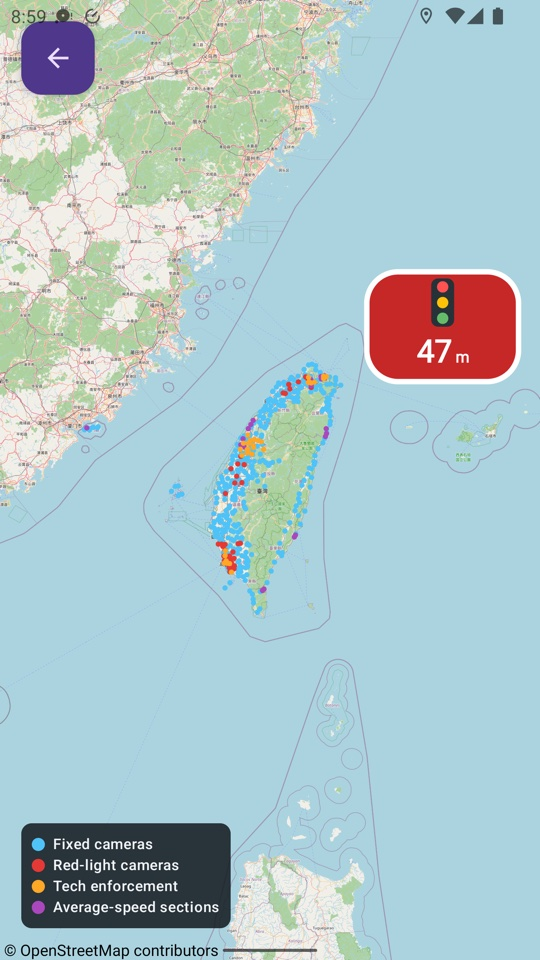
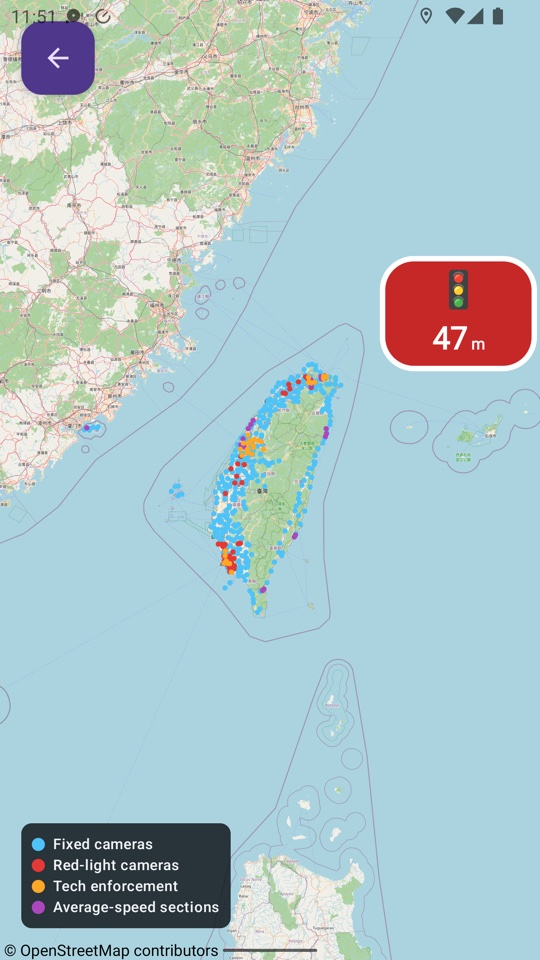
feat(overlay): emoji type glyphs, Taiwan-style limit sign, settings legend
- Camera-type glyphs on the alert card are now emoji (📸 fixed, 🚓 mobile,
  🚦 red-light, 👀 tech, ⏱ section) — instantly recognizable, no custom
  vector art to misread at arm's length.
- The speed limit renders as a round Taiwan-style sign: white halo so the
  red ring reads on the red card, white disc, bigger black number
  (auto-shrunk for 3-digit limits).
- The average-speed section card is red like the other alerts, identified
  by ⏱ instead of a separate colour.
- Announced-camera-type toggles in Settings carry the matching emoji as a
  built-in legend, in both languages.
- Engine: a pending camera pass is forgotten beyond 1.5 km regardless of
  fix quality — the accuracy/movement gates could otherwise leave a stale
  pending camera (and a red card) stuck forever through persistently poor
  GPS. Found while re-shooting screenshots; regression test added.
- README + screenshots refreshed for all of the above.

Claude-Session: https://claude.ai/code/session_01FGSQypcy63mPpxPHEKU7ao

Changed region(s): [[0.6519, 0.25, 1.0, 0.4062], [0.0296, 0.0, 0.2074, 0.0312]]

diff --git a/app/src/main/kotlin/io/github/gdepass/twspeedtrap/service/OverlayBubble.kt b/app/src/main/kotlin/io/github/gdepass/twspeedtrap/service/OverlayBubble.kt
@@ -95,11 +95,6 @@ class OverlayBubble(
 
     private val fillPaint = Paint(Paint.ANTI_ALIAS_FLAG)
     private val glyphPaint = Paint(Paint.ANTI_ALIAS_FLAG)
-    private val strokeGlyphPaint =
-        Paint(Paint.ANTI_ALIAS_FLAG).apply {
-            style = Paint.Style.STROKE
-            color = Color.WHITE
-        }
     private val strokePaint =
         Paint(Paint.ANTI_ALIAS_FLAG).apply {
             style = Paint.Style.STROKE
@@ -116,7 +111,11 @@ class OverlayBubble(
             color = Color.WHITE
             isFakeBoldText = true
         }
-    private val pillTextPaint =
+    private val emojiPaint =
+        Paint(Paint.ANTI_ALIAS_FLAG).apply {
+            textAlign = Paint.Align.CENTER
+        }
+    private val signTextPaint =
         Paint(Paint.ANTI_ALIAS_FLAG).apply {
             color = Color.BLACK
             textAlign = Paint.Align.CENTER
@@ -125,10 +124,9 @@ class OverlayBubble(
 
     init {
         strokePaint.strokeWidth = hPx * 0.045f
-        strokeGlyphPaint.strokeWidth = hPx * 0.03f
         valuePaint.textSize = hPx * 0.26f
         unitPaint.textSize = hPx * 0.13f
-        pillTextPaint.textSize = hPx * 0.19f
+        emojiPaint.textSize = hPx * 0.30f
         contentDescription = context.getString(R.string.btn_start)
     }
 
@@ -192,7 +190,7 @@ class OverlayBubble(
                 drawAlert(canvas, s)
             }
             is BubbleState.Section -> {
-                drawCard(canvas, COLOR_SECTION)
+                drawCard(canvas, COLOR_ALERT)
                 drawSection(canvas, s)
             }
         }
@@ -222,20 +220,14 @@ class OverlayBubble(
         canvas.drawRoundRect(rect, corner, corner, strokePaint)
     }
 
-    /** Type glyph always on show; the limit pill joins it when the limit is known. */
+    /** Type emoji always on show; the limit sign joins it when the limit is known. */
     private fun drawAlert(
         canvas: Canvas,
         alert: BubbleState.Alert,
     ) {
-        val hasPill = alert.limitKmh != null
-        val glyphCx = if (hasPill) wPx * 0.28f else wPx / 2f
-        when (alert.type) {
-            CameraType.RED_LIGHT -> drawTrafficLightGlyph(canvas, glyphCx)
-            CameraType.MOBILE -> drawMobileGlyph(canvas, glyphCx)
-            CameraType.TECH -> drawEyeGlyph(canvas, glyphCx)
-            else -> drawCameraGlyph(canvas, glyphCx)
-        }
-        if (alert.limitKmh != null) drawLimitPill(canvas, alert.limitKmh, wPx * 0.68f)
+        val glyphCx = if (alert.limitKmh != null) wPx * 0.27f else wPx / 2f
+        drawEmoji(canvas, emojiFor(alert.type), glyphCx)
+        if (alert.limitKmh != null) drawLimitSign(canvas, alert.limitKmh, wPx * 0.70f)
         drawBottomValue(canvas, "${alert.distanceM}", " m")
     }
 
@@ -243,89 +235,46 @@ class OverlayBubble(
         canvas: Canvas,
         section: BubbleState.Section,
     ) {
-        drawLimitPill(canvas, section.limitKmh, wPx / 2f)
+        drawEmoji(canvas, SECTION_EMOJI, wPx * 0.27f)
+        drawLimitSign(canvas, section.limitKmh, wPx * 0.70f)
         drawBottomValue(canvas, "${section.projectedKmh}", " km/h")
     }
 
-    /** Mini speed-sign: white pill, black limit number. */
-    private fun drawLimitPill(
+    private fun emojiFor(type: CameraType): String =
+        when (type) {
+            CameraType.RED_LIGHT -> "🚦"
+            CameraType.TECH -> "👀"
+            CameraType.MOBILE -> "🚓"
+            else -> "📸"
+        }
+
+    private fun drawEmoji(
+        canvas: Canvas,
+        emoji: String,
+        cx: Float,
+    ) {
+        val cy = hPx * TOP_SLOT_CENTER
+        val baseline = cy - (emojiPaint.ascent() + emojiPaint.descent()) / 2f
+        canvas.drawText(emoji, cx, baseline, emojiPaint)
+    }
+
+    /** Taiwan-style speed sign: white halo (so the ring reads on the red
+     * card), red ring, white disc, big black number. */
+    private fun drawLimitSign(
         canvas: Canvas,
         limitKmh: Int,
         cx: Float,
     ) {
         val cy = hPx * TOP_SLOT_CENTER
-        val halfH = hPx * 0.13f
-        val halfW = maxOf(hPx * 0.19f, pillTextPaint.measureText("$limitKmh") / 2f + hPx * 0.06f)
         glyphPaint.color = Color.WHITE
-        val rect = RectF(cx - halfW, cy - halfH, cx + halfW, cy + halfH)
-        canvas.drawRoundRect(rect, halfH, halfH, glyphPaint)
-        val baseline = cy - (pillTextPaint.ascent() + pillTextPaint.descent()) / 2f
-        canvas.drawText("$limitKmh", cx, baseline, pillTextPaint)
-    }
-
-    /** Three stacked light dots in a dark housing: red-light camera ahead. */
-    private fun drawTrafficLightGlyph(
-        canvas: Canvas,
-        cx: Float,
-    ) {
-        glyphPaint.color = COLOR_LIGHT_HOUSING
-        val halfW = hPx * 0.095f
-        val rect = RectF(cx - halfW, hPx * 0.10f, cx + halfW, hPx * 0.50f)
-        canvas.drawRoundRect(rect, halfW * 0.6f, halfW * 0.6f, glyphPaint)
-        val radius = hPx * 0.047f
-        listOf(0.17f to COLOR_LIGHT_RED, 0.30f to COLOR_LIGHT_AMBER, 0.43f to COLOR_LIGHT_GREEN)
-            .forEach { (yFraction, color) ->
-                glyphPaint.color = color
-                canvas.drawCircle(cx, hPx * yFraction, radius, glyphPaint)
-            }
-    }
-
-    /** White camera body with a punched-out lens: fixed camera. */
-    private fun drawCameraGlyph(
-        canvas: Canvas,
-        cx: Float,
-    ) {
-        val cy = hPx * TOP_SLOT_CENTER
+        canvas.drawCircle(cx, cy, hPx * 0.205f, glyphPaint)
+        glyphPaint.color = COLOR_SIGN_RING
+        canvas.drawCircle(cx, cy, hPx * 0.180f, glyphPaint)
         glyphPaint.color = Color.WHITE
-        val halfW = hPx * 0.155f
-        val halfH = hPx * 0.115f
-        val body = RectF(cx - halfW, cy - halfH, cx + halfW, cy + halfH)
-        canvas.drawRoundRect(body, hPx * 0.035f, hPx * 0.035f, glyphPaint)
-        glyphPaint.color = fillPaint.color
-        canvas.drawCircle(cx, cy, hPx * 0.062f, glyphPaint)
-    }
-
-    /** Camera on tripod legs: mobile enforcement. */
-    private fun drawMobileGlyph(
-        canvas: Canvas,
-        cx: Float,
-    ) {
-        val cy = hPx * 0.26f
-        glyphPaint.color = Color.WHITE
-        val halfW = hPx * 0.14f
-        val halfH = hPx * 0.10f
-        val body = RectF(cx - halfW, cy - halfH, cx + halfW, cy + halfH)
-        canvas.drawRoundRect(body, hPx * 0.03f, hPx * 0.03f, glyphPaint)
-        glyphPaint.color = fillPaint.color
-        canvas.drawCircle(cx, cy, hPx * 0.055f, glyphPaint)
-        canvas.drawLine(cx - hPx * 0.06f, cy + halfH, cx - hPx * 0.13f, hPx * 0.52f, strokeGlyphPaint)
-        canvas.drawLine(cx + hPx * 0.06f, cy + halfH, cx + hPx * 0.13f, hPx * 0.52f, strokeGlyphPaint)
-    }
-
-    /** Watching eye: tech / behaviour enforcement. */
-    private fun drawEyeGlyph(
-        canvas: Canvas,
-        cx: Float,
-    ) {
-        val cy = hPx * TOP_SLOT_CENTER
-        glyphPaint.color = Color.WHITE
-        canvas.save()
-        canvas.translate(cx, cy)
-        canvas.scale(1.6f, 1f)
-        canvas.drawCircle(0f, 0f, hPx * 0.115f, glyphPaint)
-        canvas.restore()
-        glyphPaint.color = fillPaint.color
-        canvas.drawCircle(cx, cy, hPx * 0.065f, glyphPaint)
+        canvas.drawCircle(cx, cy, hPx * 0.132f, glyphPaint)
+        signTextPaint.textSize = if (limitKmh >= 100) hPx * 0.15f else hPx * 0.20f
+        val baseline = cy - (signTextPaint.ascent() + signTextPaint.descent()) / 2f
+        canvas.drawText("$limitKmh", cx, baseline, signTextPaint)
     }
 
     private fun drawPlayGlyph(canvas: Canvas) {
@@ -424,14 +373,13 @@ class OverlayBubble(
         private const val QUIET_SIZE_DP = 72f
         private const val TOP_SLOT_CENTER = 0.30f
         private const val BOTTOM_SLOT_CENTER = 0.71f
+        private const val SECTION_EMOJI = "⏱"
         private val COLOR_IDLE = Color.rgb(0x54, 0x6E, 0x7A)
         private val COLOR_NO_GPS = Color.rgb(0xF9, 0xA8, 0x25)
         private val COLOR_CLEAR = Color.rgb(0x2E, 0x7D, 0x32)
         private val COLOR_ALERT = Color.rgb(0xC6, 0x28, 0x28)
-        private val COLOR_SECTION = Color.rgb(0xAB, 0x47, 0xBC)
-        private val COLOR_LIGHT_HOUSING = Color.rgb(0x26, 0x32, 0x38)
-        private val COLOR_LIGHT_RED = Color.rgb(0xFF, 0x52, 0x52)
-        private val COLOR_LIGHT_AMBER = Color.rgb(0xFF, 0xC1, 0x07)
-        private val COLOR_LIGHT_GREEN = Color.rgb(0x66, 0xBB, 0x6A)
+
+        /** Traffic-sign red, slightly darker than the card so the halo carries the separation. */
+        private val COLOR_SIGN_RING = Color.rgb(0xB7, 0x1C, 0x1C)
     }
 }

diff --git a/detection/src/main/kotlin/io/github/gdepass/twspeedtrap/detection/AlertEngine.kt b/detection/src/main/kotlin/io/github/gdepass/twspeedtrap/detection/AlertEngine.kt
@@ -121,13 +121,20 @@ class AlertEngine(
         fix: Fix,
         pending: PendingPass,
         distance: Double,
-    ): Boolean {
-        if (fix.accuracyM > PASS_ACCURACY_GATE_M) return false
-        if (isBehind(fix, pending.camera)) return true
-        if (fix.speedMps < config.minSpeedForBearingMps) return false
-        pending.minDistanceM = min(pending.minDistanceM, distance)
-        return distance > pending.minDistanceM + PASS_CLEAR_MARGIN_M
-    }
+    ): Boolean =
+        when {
+            // Far beyond any alert ring the camera is unambiguously not
+            // ahead: forget it even on untrusted fixes, or a pending pass
+            // could stick forever through persistently poor accuracy.
+            distance > PASS_FORGET_DISTANCE_M -> true
+            fix.accuracyM > PASS_ACCURACY_GATE_M -> false
+            isBehind(fix, pending.camera) -> true
+            fix.speedMps < config.minSpeedForBearingMps -> false
+            else -> {
+                pending.minDistanceM = min(pending.minDistanceM, distance)
+                distance > pending.minDistanceM + PASS_CLEAR_MARGIN_M
+            }
+        }
 
     /** Returns the distance when the camera is relevant to this fix, else null. */
     private fun evaluate(
@@ -204,6 +211,9 @@ class AlertEngine(
 
         /** Fixes with worse accuracy than this decide nothing about passing a camera. */
         const val PASS_ACCURACY_GATE_M = 50.0
+
+        /** Beyond this distance a pending pass is forgotten regardless of fix quality. */
+        const val PASS_FORGET_DISTANCE_M = 1_500.0
 
         fun angularDifference(
             a: Double,

diff --git a/app/src/main/kotlin/io/github/gdepass/twspeedtrap/ui/SettingsScreen.kt b/app/src/main/kotlin/io/github/gdepass/twspeedtrap/ui/SettingsScreen.kt
@@ -384,18 +384,30 @@ private fun SliderRow(
     }
 }
 
+/** Label plus the emoji the floating bubble uses for the type — a legend. */
 @Composable
-private fun cameraTypeLabel(type: CameraType): String =
-    stringResource(
+private fun cameraTypeLabel(type: CameraType): String {
+    val label =
+        stringResource(
+            when (type) {
+                CameraType.FIXED -> R.string.type_fixed
+                CameraType.MOBILE -> R.string.type_mobile
+                CameraType.RED_LIGHT -> R.string.type_red_light
+                CameraType.SECTION -> R.string.type_section
+                CameraType.TECH -> R.string.type_tech
+                CameraType.OTHER -> R.string.type_other
+            },
+        )
+    val emoji =
         when (type) {
-            CameraType.FIXED -> R.string.type_fixed
-            CameraType.MOBILE -> R.string.type_mobile
-            CameraType.RED_LIGHT -> R.string.type_red_light
-            CameraType.SECTION -> R.string.type_section
-            CameraType.TECH -> R.string.type_tech
-            CameraType.OTHER -> R.string.type_other
-        },
-    )
+            CameraType.MOBILE -> "🚓"
+            CameraType.RED_LIGHT -> "🚦"
+            CameraType.SECTION -> "⏱"
+            CameraType.TECH -> "👀"
+            else -> "📸"
+        }
+    return "$label $emoji"
+}
 
 private fun overlayPermissionIntent(context: Context): Intent =
     Intent(Settings.ACTION_MANAGE_OVERLAY_PERMISSION, Uri.parse("package:${context.packageName}"))

diff --git a/detection/src/test/kotlin/io/github/gdepass/twspeedtrap/detection/AlertEngineTest.kt b/detection/src/test/kotlin/io/github/gdepass/twspeedtrap/detection/AlertEngineTest.kt
@@ -174,6 +174,20 @@ class AlertEngineTest {
     }
 
     @Test
+    fun `an implausibly distant pending camera is forgotten even on bad fixes`() {
+        val engine = AlertEngine(listOf(camera))
+        assertEquals(1, engine.onFix(fix(camera.lat + 150 * degPerMeterLat)).size)
+        // 2 km away with garbage accuracy and no speed: no ring is that big,
+        // so the pending pass must clear instead of sticking forever.
+        val far =
+            engine.onFix(
+                fix(camera.lat + 2000 * degPerMeterLat, speedKmh = 0.0, bearing = null, accuracy = 300.0),
+            )
+        assertEquals(listOf<AlertEvent>(AlertEvent.AllClear(camera)), far)
+        assertTrue(engine.activeAlert == null)
+    }
+
+    @Test
     fun `a noisy close fix must not ratchet the closest approach`() {
         val engine = AlertEngine(listOf(camera))
         assertEquals(1, engine.onFix(fix(camera.lat + 150 * degPerMeterLat)).size)

diff --git a/README.md b/README.md
@@ -40,8 +40,8 @@ detection** without opening the app.
 | **Grey circle, play glyph** | Detection is off. Tap to start it (tap again anytime to stop). |
 | **Amber circle, !** | Detection is running but blind: location services are off, or no GPS fix has arrived yet. Never trust a ride to an amber bubble. |
 | **Green circle** | Detection running, GPS locked, nothing ahead — all clear. |
-| **Red card** | A camera alert is active: a glyph shows the camera type (camera = fixed, tripod = mobile, traffic light = red-light, eye = tech/behaviour), the white pill its speed limit when known, and the metres count down live until the camera is behind you. |
-| **Purple card** | Average-speed section in progress: the pill shows the section limit, the number is your **projected exit average** — keep it under the pill and the exit announcement stays polite. |
+| **Red card** | A camera alert is active: an emoji shows the type (📸 fixed, 🚓 mobile spot, 🚦 red-light, 👀 tech/behaviour), a round Taiwan-style sign its speed limit when known, and the metres count down live until the camera is behind you. |
+| **Red card, ⏱** | Average-speed section in progress: the sign shows the section limit, the number is your **projected exit average** — keep it under the sign and the exit announcement stays polite. |
 
 <p>
   <img src="docs/bubble-idle.jpg" width="180" alt="Grey idle bubble with a play glyph: detection off, tap to start">
@@ -49,12 +49,12 @@ detection** without opening the app.
   <img src="docs/bubble-green.jpg" width="180" alt="Green bubble: detection running, all clear">
 </p>
 <p>
-  <img src="docs/bubble-red.jpg" width="180" alt="Red card with camera glyph, limit 50 pill and 249 m countdown for a fixed camera">
-  <img src="docs/bubble-redlight.jpg" width="180" alt="Red card with a traffic-light glyph and 47 m countdown for a red-light camera">
-  <img src="docs/bubble-tech.jpg" width="180" alt="Red card with an eye glyph and 250 m countdown for a tech-enforcement camera">
+  <img src="docs/bubble-red.jpg" width="180" alt="Red card with the camera emoji, a round limit-50 sign and 249 m countdown for a fixed camera">
+  <img src="docs/bubble-redlight.jpg" width="180" alt="Red card with the traffic-light emoji and 47 m countdown for a red-light camera">
+  <img src="docs/bubble-tech.jpg" width="180" alt="Red card with the eyes emoji and 250 m countdown for a tech-enforcement camera">
 </p>
 <p>
-  <img src="docs/bubble-section.jpg" width="180" alt="Purple card with the section limit 70 pill and the projected exit average">
+  <img src="docs/bubble-section.jpg" width="180" alt="Red card with the stopwatch emoji, the round section limit-70 sign and the projected exit average">
 </p>
 
 ## How to install
@@ -150,7 +150,9 @@ Open the gear icon (top right):
 - **Start detection when Bluetooth connects** — optional auto-start when
   your helmet intercom (or any Bluetooth device) connects; grant the
   Bluetooth permission when the settings row asks for it.
-- **Announced camera types** — pick which camera families speak.
+- **Announced camera types** — pick which camera families speak; each row
+  carries the emoji the bubble uses for that type (📸 🚓 🚦 ⏱ 👀), so the
+  list doubles as the legend.
 - **Automatic weekly update** — the camera database refreshes itself over
   Wi-Fi by default; no app update needed for new cameras.
 
